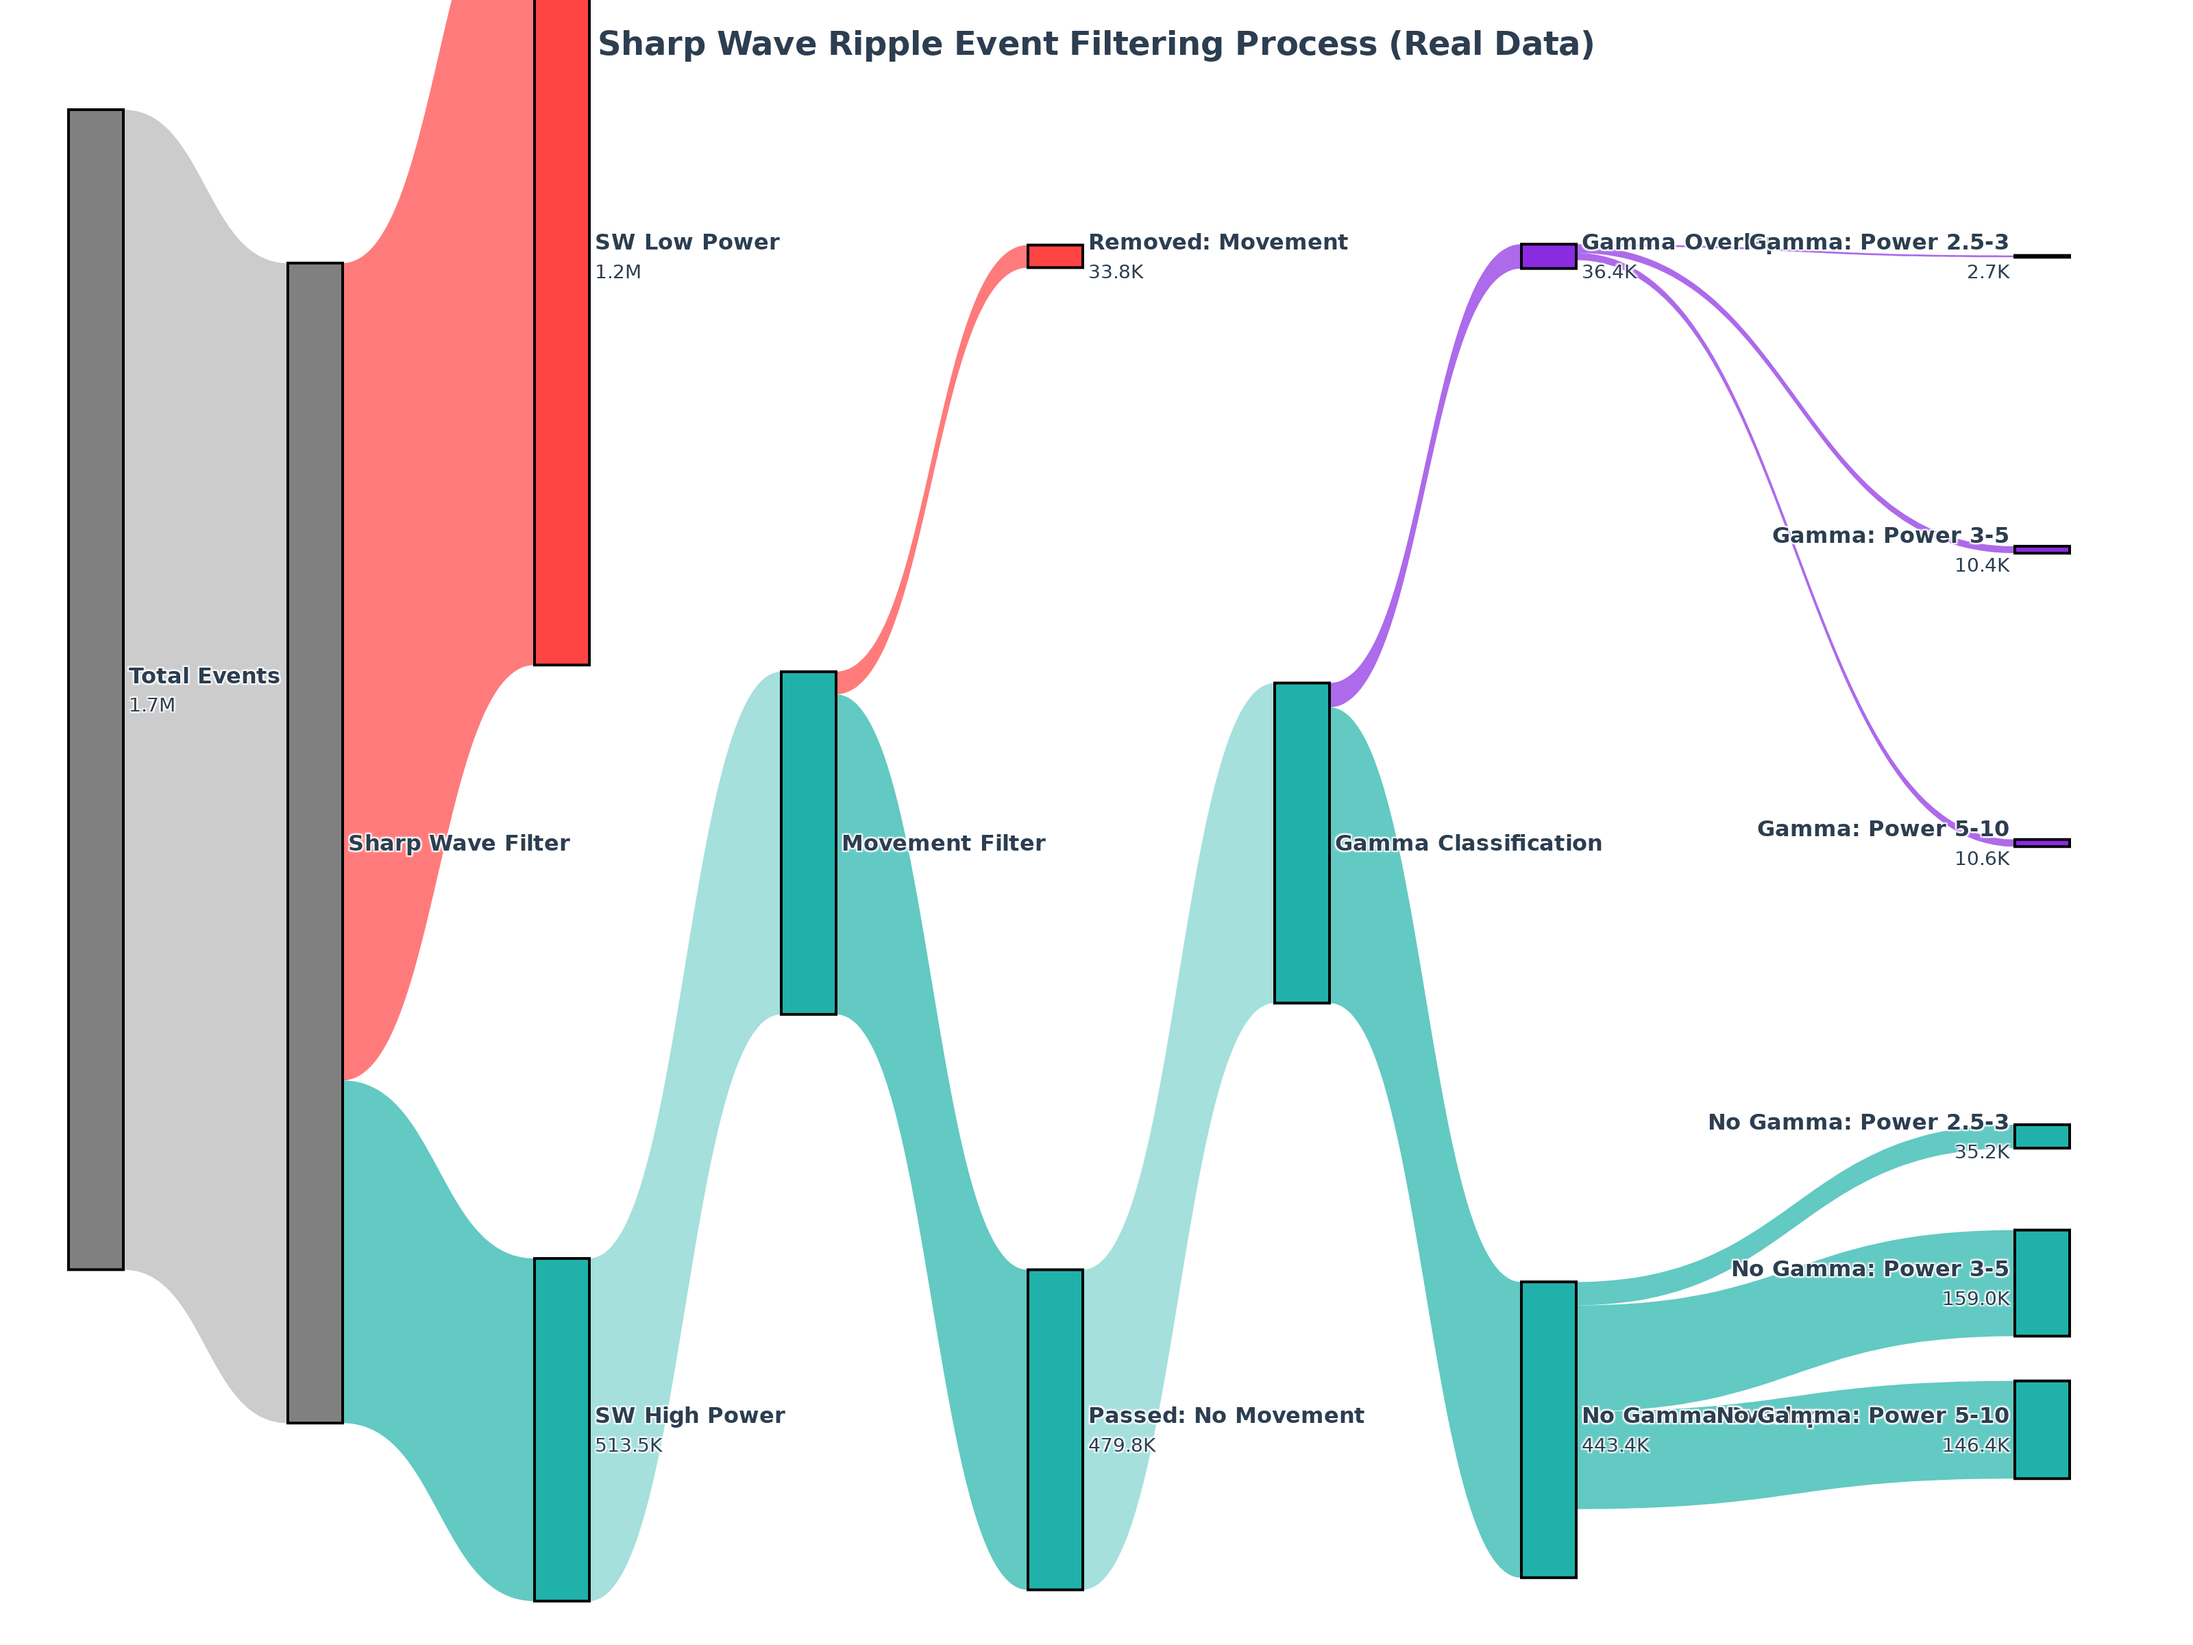
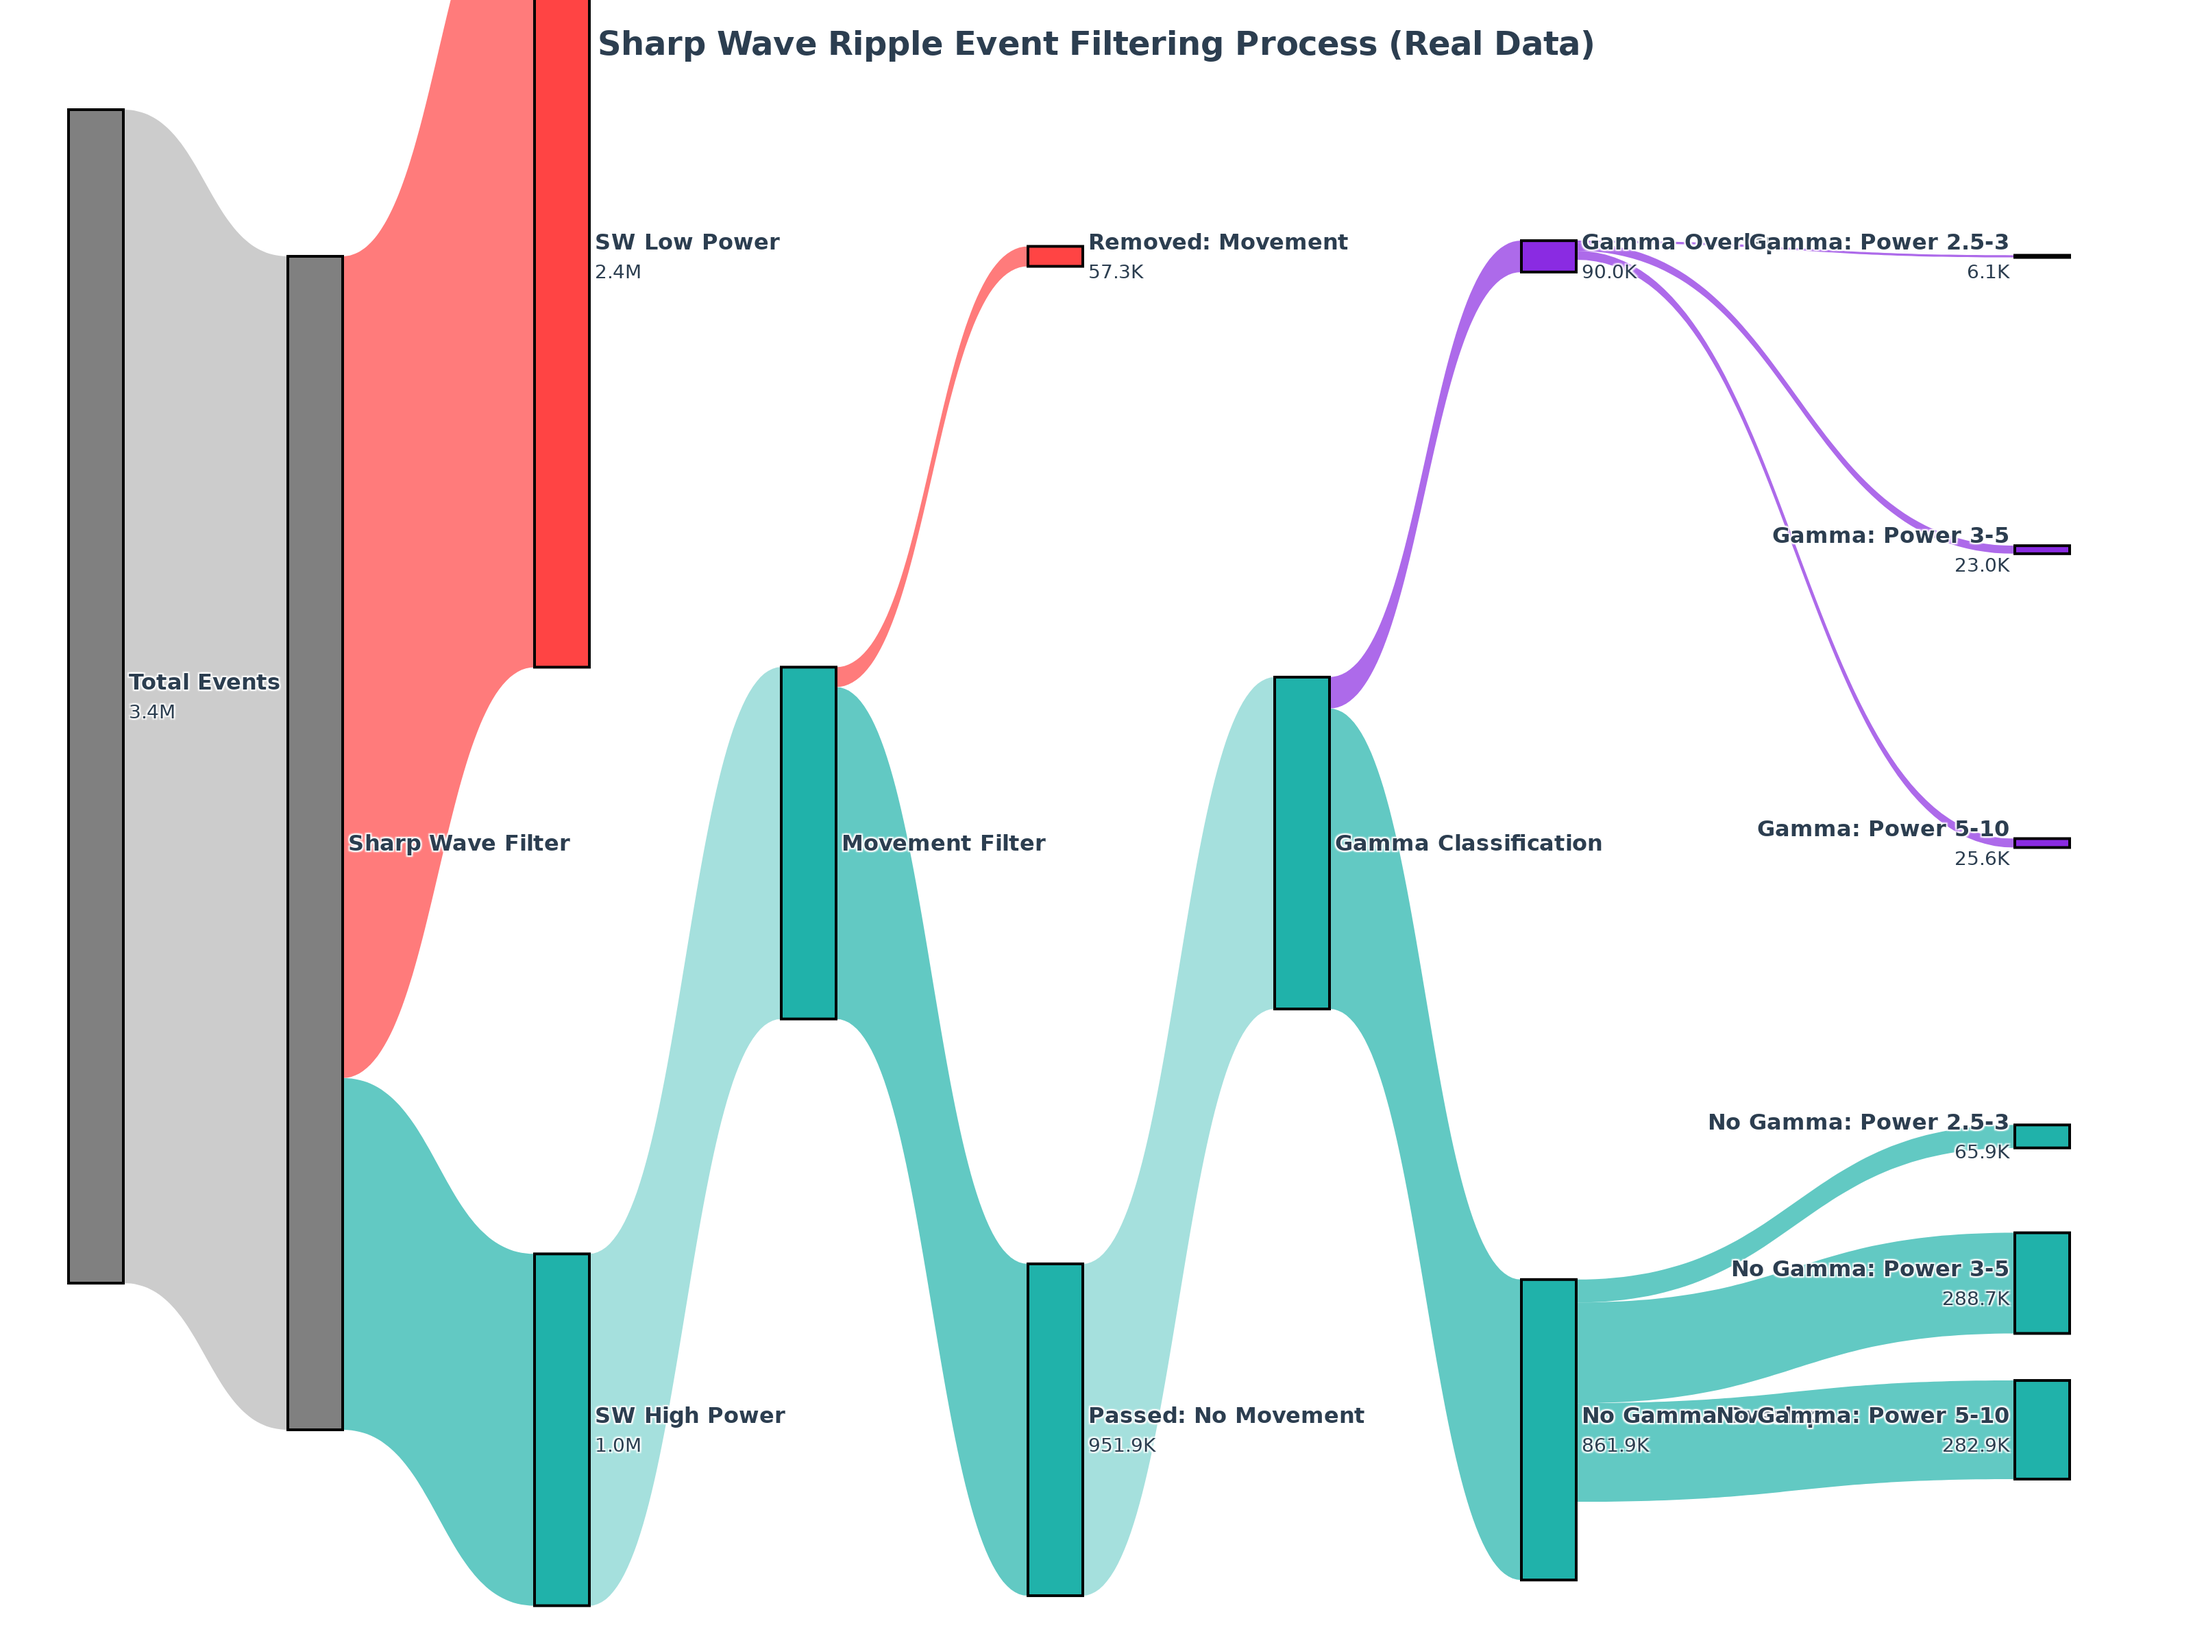
countign events

diff --git a/Figures_and_Technical_Validation/Sankey_plots/count_total_events.py b/Figures_and_Technical_Validation/Sankey_plots/count_total_events.py
@@ -1,0 +1,65 @@
+import pandas as pd
+import glob
+import os
+
+def count_swr_events_by_dataset(base_path):
+    """
+    Count events that pass through the SWR filtering pipeline (valid SWRs) by dataset.
+    Includes both gamma and non-gamma events that meet the SWR criteria.
+    """
+    datasets = [
+        "allen_visbehave_swr_murphylab2024",
+        "allen_viscoding_swr_murphylab2024",
+        "ibl_swr_murphylab2024"
+    ]
+    
+    dataset_counts = {}
+    
+    for dataset in datasets:
+        dataset_path = os.path.join(base_path, dataset)
+        session_folders = glob.glob(os.path.join(dataset_path, "swrs_session_*"))
+        
+        dataset_swr_events = 0
+        
+        for session in session_folders:
+            event_files = glob.glob(os.path.join(session, "*putative_swr_events.csv.gz"))
+            
+            for event_file in event_files:
+                df = pd.read_csv(event_file, compression='gzip')
+                
+                # Apply the same filtering as the Sankey plot:
+                # 1. Sharp wave filter: sw_exceeds_threshold == True AND power_max_zscore > 1
+                sharp_wave_mask = (df['sw_exceeds_threshold'] == True) & (df['power_max_zscore'] > 1)
+                
+                # 2. Movement filter: no overlap with movement
+                movement_mask = ~df['overlaps_with_movement']
+                
+                # Count events that pass both filters (these are valid SWRs)
+                valid_swr_mask = sharp_wave_mask & movement_mask
+                dataset_swr_events += valid_swr_mask.sum()
+        
+        dataset_counts[dataset] = dataset_swr_events
+    
+    return dataset_counts
+
+if __name__ == "__main__":
+    # Use the same base path as the Sankey plot script
+    base_path = "/space/scratch/SWR_final_pipeline/osf_campbellmurphy2025_v2_final"
+    
+    try:
+        dataset_counts = count_swr_events_by_dataset(base_path)
+        
+        print("SWR Events by Dataset:")
+        print("=" * 50)
+        total_events = 0
+        for dataset, count in dataset_counts.items():
+            print(f"{dataset}: {count:,}")
+            total_events += count
+        
+        print("-" * 50)
+        print(f"Total SWR events: {total_events:,}")
+        print("(Includes both gamma and non-gamma events that pass SWR filtering criteria)")
+        
+    except Exception as e:
+        print(f"Error processing data: {e}")
+        print("Please check that the base path exists and contains the expected dataset structure.") 

diff --git a/Figures_and_Technical_Validation/Sankey_plots/filteringsankey_real_data.py b/Figures_and_Technical_Validation/Sankey_plots/filteringsankey_real_data.py
@@ -30,7 +30,7 @@ def process_all_datasets(base_path):
         session_folders = glob.glob(os.path.join(dataset_path, "swrs_session_*"))
         
         for session in session_folders:
-            event_files = glob.glob(os.path.join(session, "*karlsson_detector_events.csv.gz"))
+            event_files = glob.glob(os.path.join(session, "*putative_swr_events.csv.gz"))
             
             for event_file in event_files:
                 df = pd.read_csv(event_file, compression='gzip')
@@ -72,7 +72,8 @@ def process_all_datasets(base_path):
     return total_stats
 
 # Process the data
-base_path = "/space/scratch/SWR_final_pipeline/osf_campbellmurphy2025_swr_data"
+#base_path = "/space/scratch/SWR_final_pipeline/osf_campbellmurphy2025_swr_data"
+base_path = "/space/scratch/SWR_final_pipeline/osf_campbellmurphy2025_v2_final"
 stats = process_all_datasets(base_path)
 
 # Format numbers for display
@@ -220,8 +221,8 @@ fig.update_layout(
 )
 
 # Save as PNG and SVG
-fig.write_image("real_data_filtering_sankey.png", width=1600, height=1200, scale=2)
-fig.write_image("real_data_filtering_sankey.svg", width=1600, height=1200, scale=2)
+fig.write_image("v2_real_data_filtering_sankey.png", width=1600, height=1200, scale=2)
+fig.write_image("v2_real_data_filtering_sankey.svg", width=1600, height=1200, scale=2)
 
 # Print summary statistics
 print("=" * 70)

diff --git a/Figures_and_Technical_Validation/Sankey_plots/README.md b/Figures_and_Technical_Validation/Sankey_plots/README.md
@@ -19,3 +19,6 @@ This folder contains code to generate Sankey diagrams visualizing the filtering 
 - The SVG image generated by Plotly was further edited in Inkscape:
   - The diagram was **flipped** and visually adjusted.
   - This flipping could not be done programmatically and required manual editing in Inkscape. 
+
+## Counting SWR events
+I use `count_total_events.py` to count all the events across all the datasets.  I include events which overlap with gamma events as potential SWRs for these numbers.
